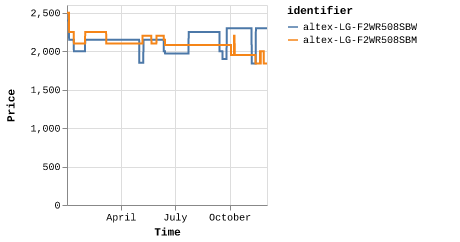
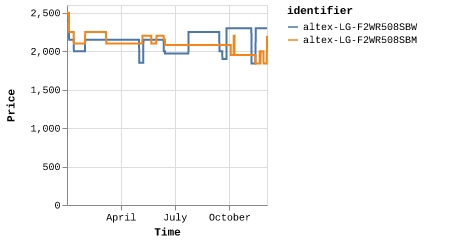
Latest scraping spalat: Tue Dec  3 04:45:48 UTC 2024

diff --git a/scrapes/spalat/altex-LG-F2WR508SBM.md b/scrapes/spalat/altex-LG-F2WR508SBM.md
@@ -1,3 +1,3 @@
-1839
+2199
 
 [Source](https://altex.ro/masina-de-spalat-rufe-frontala-slim-lg-f2wr508sbm-steam-8-kg-1200rpm-clasa-a-negru/cpd/MSFF2WR508SBM/)
